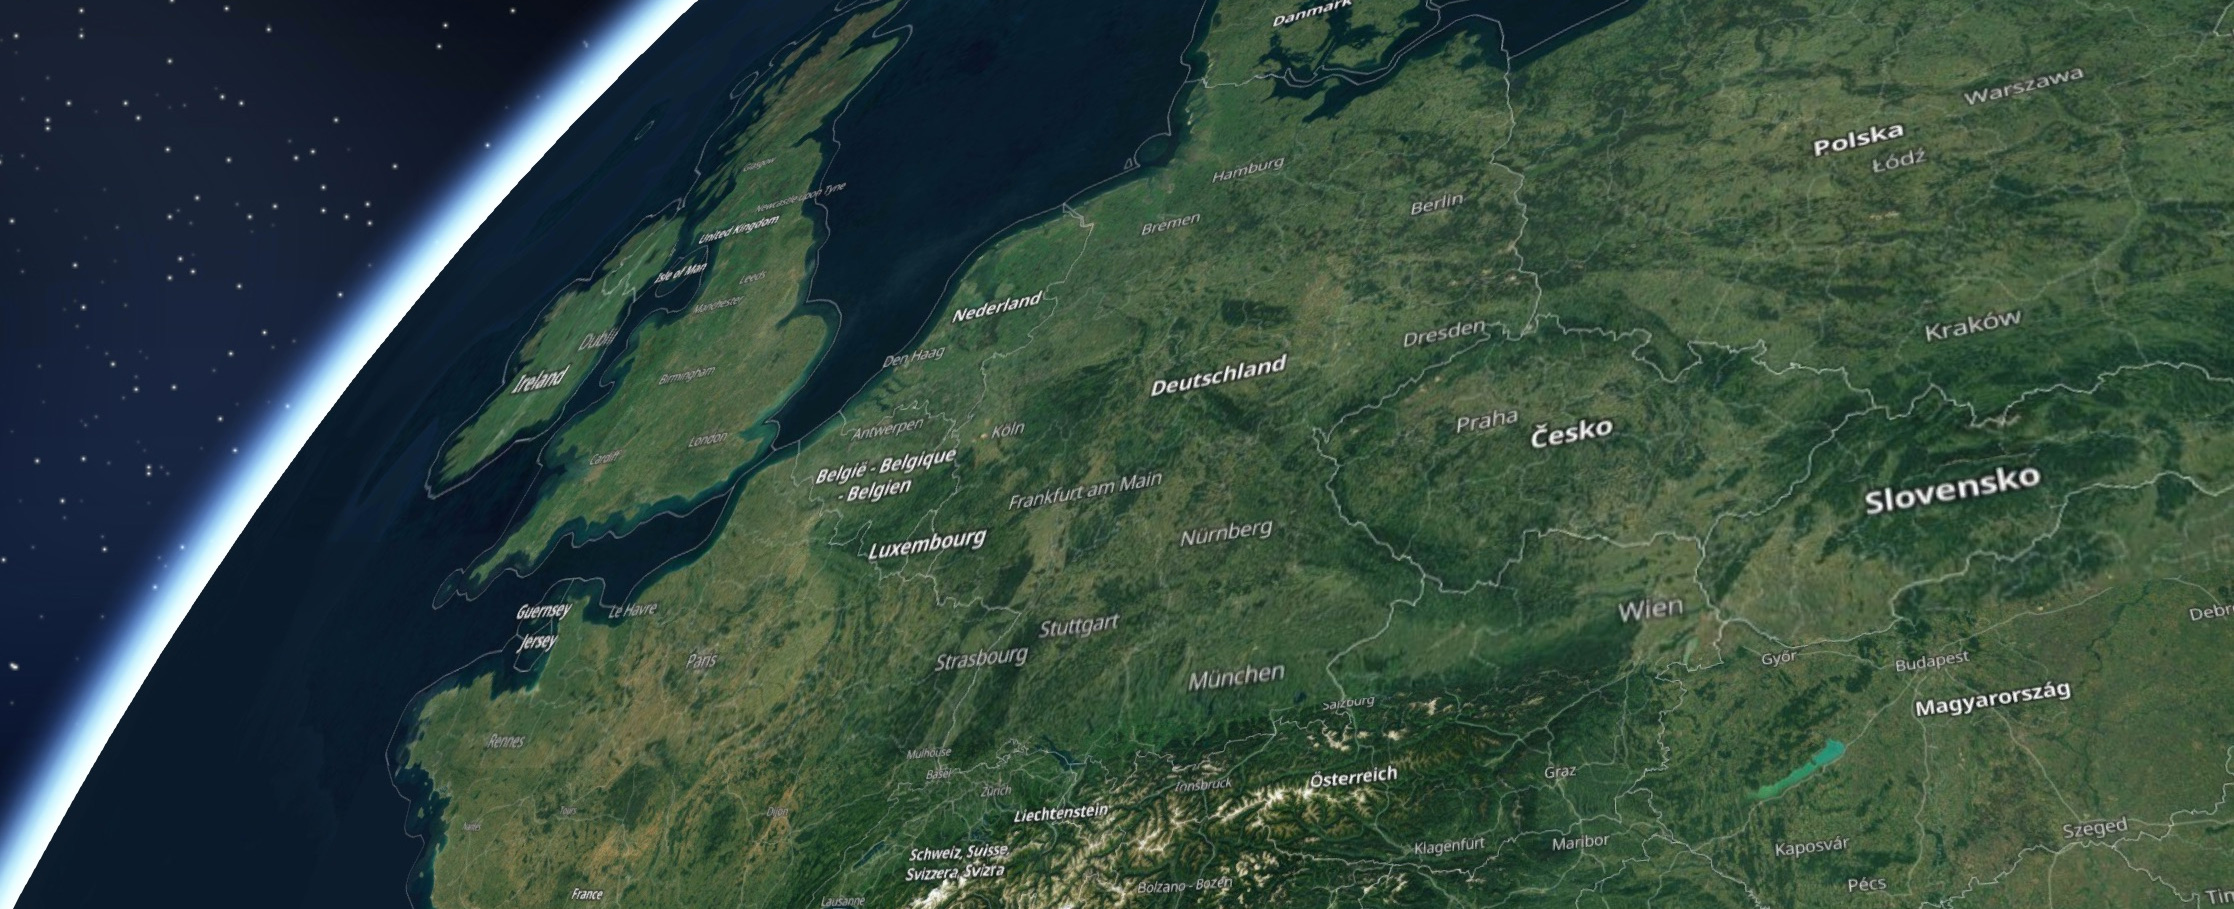
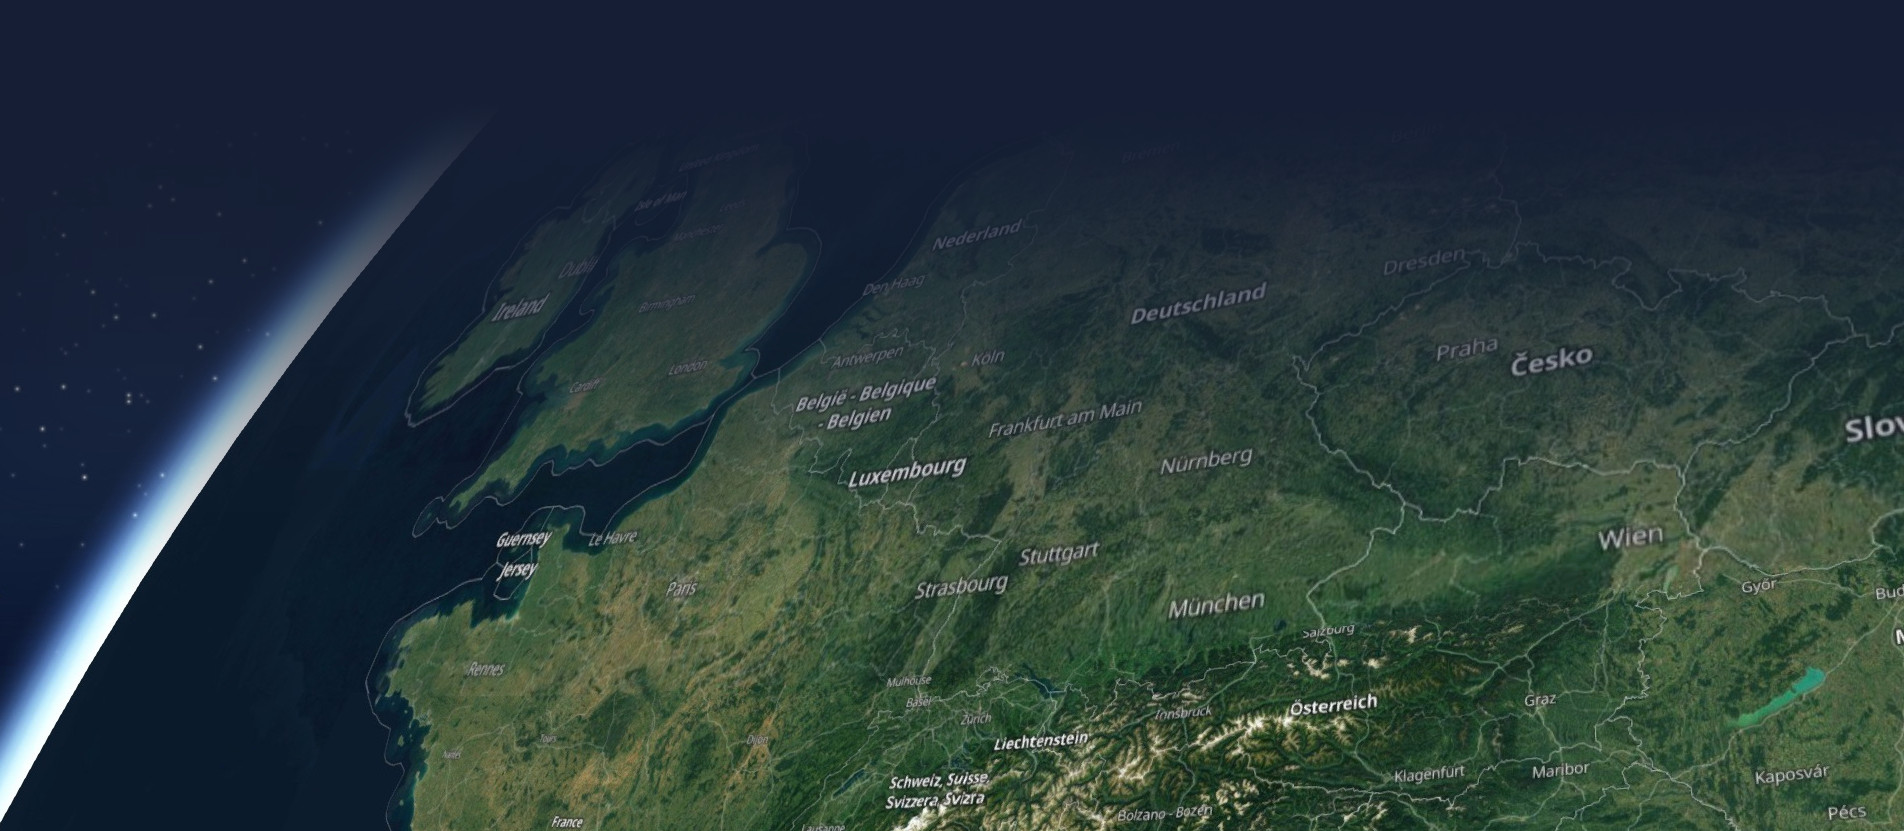
New background

diff --git a/styles/_custom.scss b/styles/_custom.scss
@@ -3,7 +3,7 @@ $banner-height: 600px;
 body {
   background-color: #000;
   background-image: url('/img/bg.jpg');
-  background-size: auto $banner-height;
+  background-size: cover;
   background-position: center top;
   background-repeat: no-repeat;
   height: $banner-height;
@@ -22,13 +22,13 @@ body {
     font-weight: 600;
     color: #fff;
     margin-top: 225px;
-    text-shadow: 0 0 30px #000;
+    text-shadow: 0 0 30px #151e34;
     transition: all 0.3s ease;
   }
 
   a.btn {
     margin-top: 40px;
-    box-shadow: 0 0 20px #000;
+    box-shadow: 0 0 20px #151e34;
   }
 }
 
